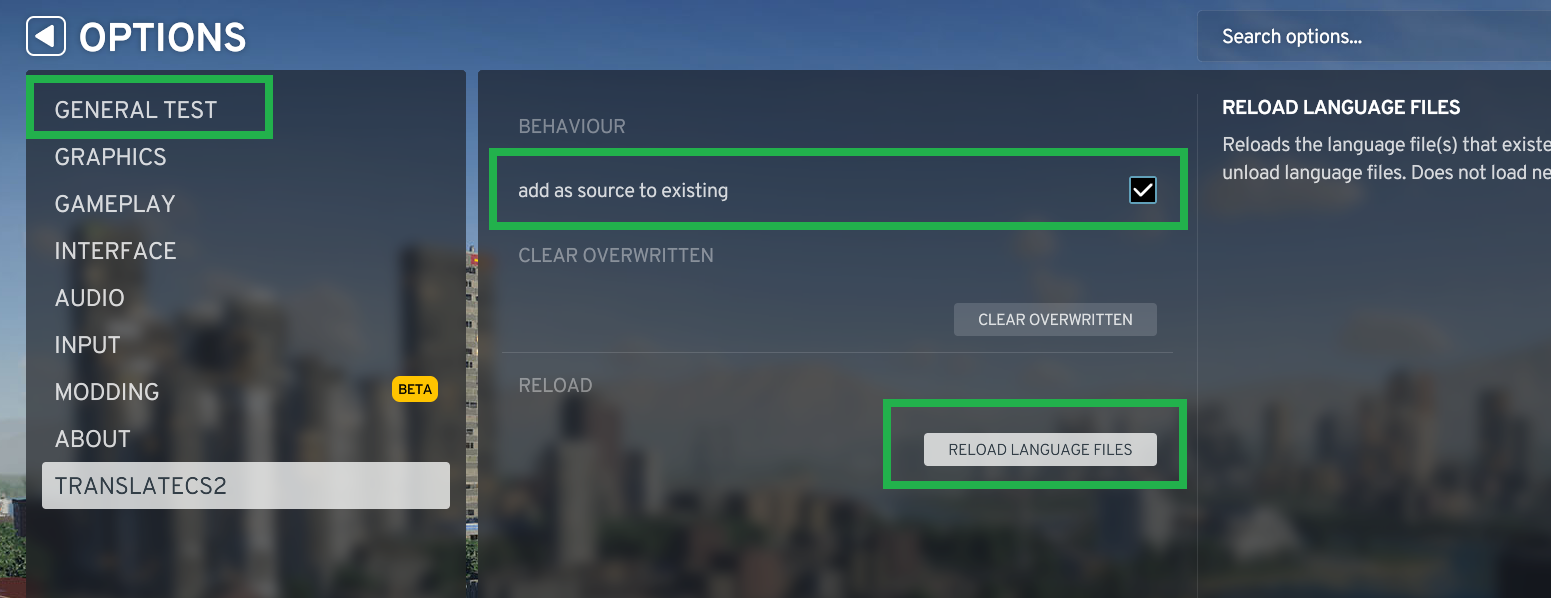
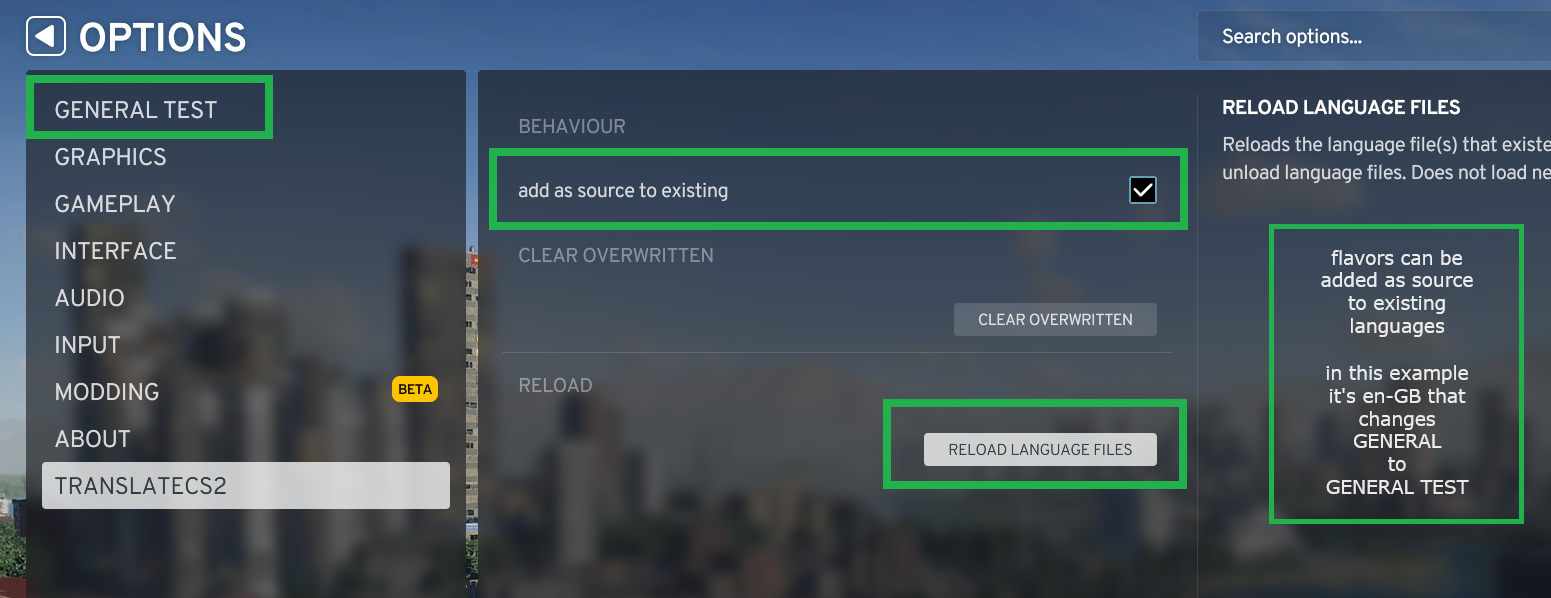
docs

Changed region(s): [[0.8046, 0.3612, 0.9903, 0.903]]

diff --git a/TranslateCS2.Mod/README.md b/TranslateCS2.Mod/README.md
@@ -9,12 +9,13 @@ To load custom translations that are listed within [Cities: Skylines II](https:/
 # How it works
 ## preamble
 - the engine, [Unity](https://unity.com),  used by [Colossal Order](https://colossalorder.fi), supports a general set of languages
-- for example:
-    - locales/flavours like
-        - en-GB
-        - en-US
-        - and others; in general 'en-'
-    - result in [Unity](https://unity.com)'s language 'English'
+    - for example:
+        - locales/flavours like
+            - en-GB
+            - en-US
+            - and others; in general 'en-'
+        - result in [Unity](https://unity.com)'s language 'English'
+    - this general support limits the options for sideloading additional languages or flavors
 - [Colossal Order](https://colossalorder.fi) already provided us, the community, with a rich set of translations
     - de-DE
     - en-US
@@ -28,12 +29,17 @@ To load custom translations that are listed within [Cities: Skylines II](https:/
     - ru-RU
     - zh-HANS
     - zh-HANT
+- for those languages, only flavors can be added
 
 ### general
 - create a JSON-file or use an existing ones
 - the JSON-file should contain one JSON-Object
 - the JSON-Object should contain commaseperated Key-Value-Pairs
 - use [Colossal Order](https://colossalorder.fi)'s respective Key as Key and the custom translation as Value
+- filename format:
+    - [language-code]-[region].json
+    - example:
+        - en-US.json
 
 #### example
 
@@ -104,3 +110,23 @@ To load custom translations that are listed within [Cities: Skylines II](https:/
   "Options.SECTION[General]": "Algemeen"
 }
 ```
+
+# limitations
+as described in the preamble of how it works:
+
+- for the built-in languages, only flavors can be added
+    - de-DE
+    - en-US
+    - es-ES
+    - fr-FR
+    - it-IT
+    - ja-JP
+    - ko-KR
+    - pl-PL
+    - pt-BR
+    - ru-RU
+    - zh-HANS
+    - zh-HANT
+- adding multiple language files, that result in a single [Unity](https://unity.com)-language:
+    - flavors are added in the order of load
+
